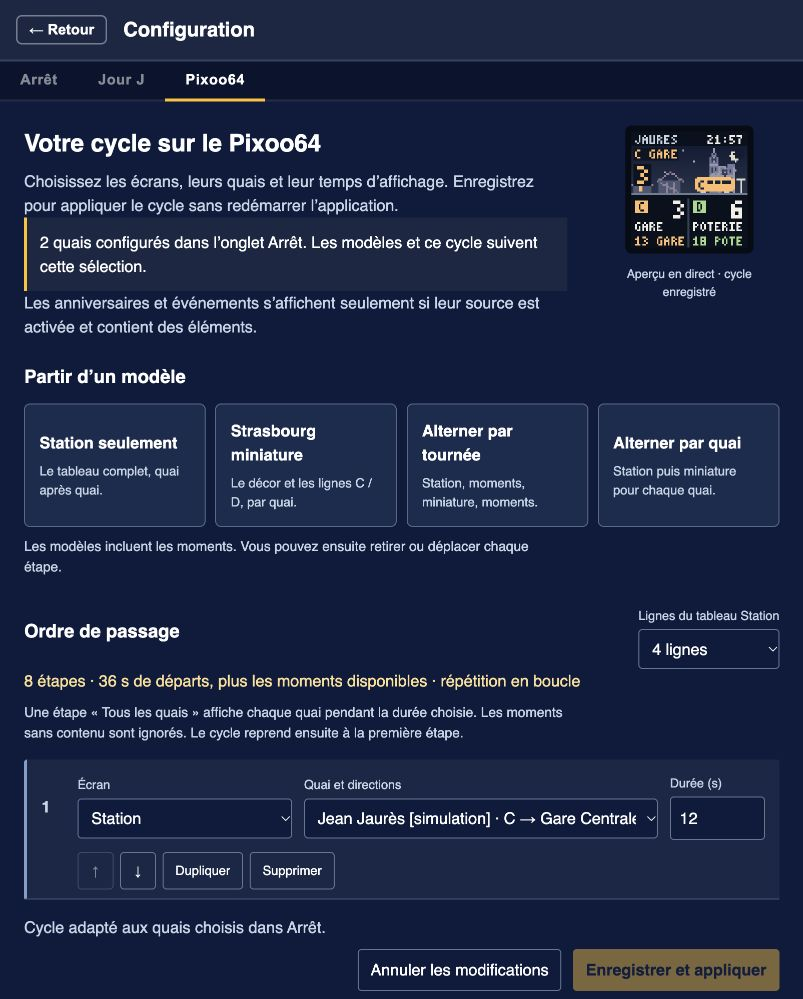
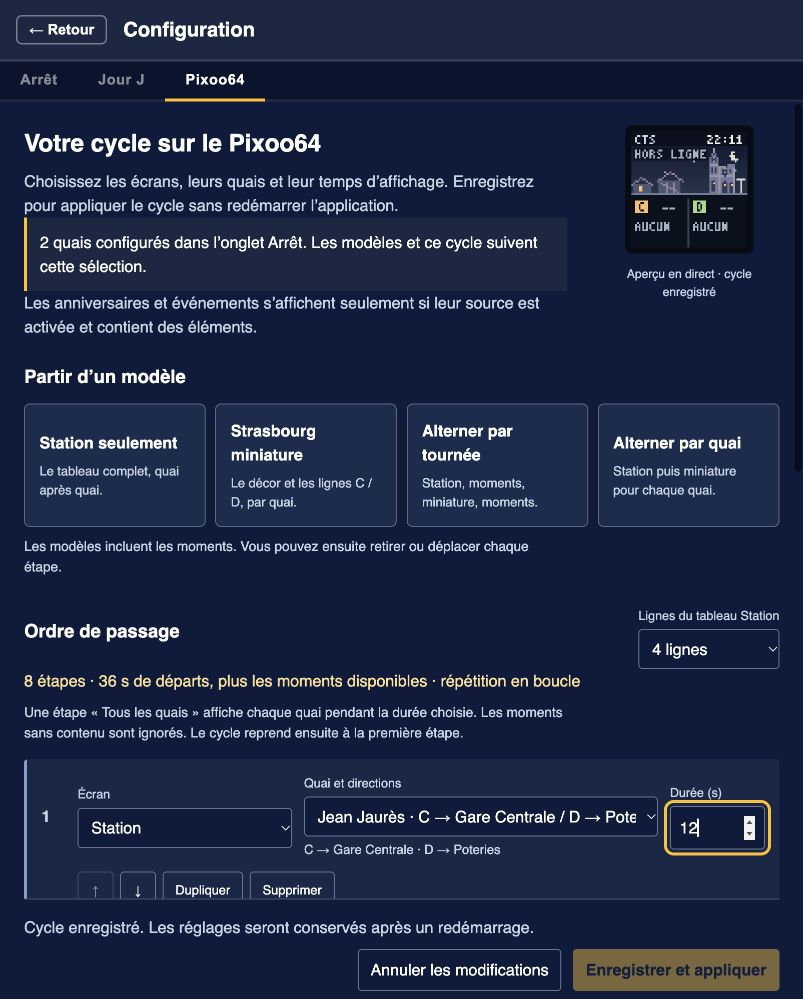
fix: retain PIXOO64 platform names outside service hours (v1.6.6)

diff --git a/static/pixoo-config.js b/static/pixoo-config.js
@@ -21,7 +21,7 @@
         dirty = true; report("Modifications non enregistrées."); refreshSummary();
     }
     function platformLabel(p) {
-        return (p.name || "Quai") + " · " + (p.directions.length ? p.directions.join(" / ") : "Réf. " + p.ref) + (p.directions.length ? " (" + p.ref + ")" : "");
+        return (p.name || "Arrêt à identifier") + " · " + (p.directions.length ? p.directions.join(" / ") : "Directions encore inconnues (" + p.ref + ")");
     }
     function isDeparture(step) { return step.screen === "station" || step.screen === "miniature"; }
     function refreshSummary() {
@@ -52,6 +52,11 @@
                 changed(); renderSteps(); focusStep(i);
             });
             var platform = el("select"); platform.id = "px-platform-" + i;
+            var platformCaption = el("small", "px-platform-caption");
+            function describePlatform() {
+                var selected = data.platforms.find(function (p) {return p.ref === step.platform;});
+                platformCaption.textContent = selected ? (selected.directions.join(" · ") || "Directions encore inconnues") : "Chaque quai sélectionné dans Arrêt";
+            }
             if (isDeparture(step)) {
                 platform.append(option("", "Tous les quais configurés"));
                 data.platforms.forEach(function (p) { platform.append(option(p.ref, platformLabel(p))); });
@@ -59,12 +64,14 @@
                 platform.value = step.platform || "";
                 platform.addEventListener("change", function () {
                     if (platform.value) step.platform = platform.value; else delete step.platform;
-                    changed();
+                    describePlatform(); changed();
                 });
             } else { platform.append(option("", "Tous les éléments disponibles")); platform.disabled = true; }
             var seconds = el("input"); seconds.type = "number"; seconds.min = "1"; seconds.max = "300"; seconds.step = "1"; seconds.value = step.seconds; seconds.id = "px-seconds-" + i;
             seconds.addEventListener("input", function () { step.seconds = seconds.valueAsNumber; changed(); });
-            row.append(field("Écran", type), field(isDeparture(step) ? "Quai et directions" : "Contenu", platform), field(isDeparture(step) ? "Durée (s)" : "Par élément (s)", seconds));
+            var platformField = field(isDeparture(step) ? "Quai et directions" : "Contenu", platform);
+            if (isDeparture(step)) {describePlatform(); platformField.append(platformCaption);}
+            row.append(field("Écran", type), platformField, field(isDeparture(step) ? "Durée (s)" : "Par élément (s)", seconds));
             var actions = el("div", "px-step-actions");
             [["↑", "Monter", -1], ["↓", "Descendre", 1]].forEach(function (a) {
                 var b = button(a[0], function () { var target = i + a[2]; draft.steps.splice(target, 0, draft.steps.splice(i, 1)[0]); changed(); renderSteps(); focusStep(target); });

diff --git a/static/style.css b/static/style.css
@@ -1709,3 +1709,5 @@ html, body {
 }
 
 #config-tabs .config-tab[hidden] { display: none; }
+
+#config-tab-pixoo64 .px-platform-caption { color: #c6d6e8; font-size: .8rem; line-height: 1.45; white-space: normal; overflow-wrap: anywhere; }

diff --git a/src/pixoo64/platforms.rs b/src/pixoo64/platforms.rs
@@ -1,0 +1,190 @@
+// SPDX-License-Identifier: MIT
+//! Display-only stop metadata, independent of the availability of departures.
+use crate::{cts::model::MonitoredStopVisit, web::AppState};
+use serde::{Deserialize, Serialize};
+use std::collections::BTreeMap;
+
+#[derive(Clone, Debug, Default, PartialEq, Eq, Serialize, Deserialize)]
+pub struct Label {
+    pub name: String,
+    #[serde(default)]
+    pub directions: Vec<String>,
+}
+pub type Labels = BTreeMap<String, Label>;
+
+/// Initial labels for the Jean Jaurès platforms supported by the default cycle.
+/// Observed CTS metadata takes precedence; references remain internal identifiers.
+pub fn initial(reference: &str) -> Label {
+    let directions = match reference {
+        "298B" => vec!["C → Gare Centrale", "D → Poteries"],
+        "298A" => vec!["C → Neuhof Rodolphe Reuss", "D → Kehl / Port du Rhin"],
+        _ => return Label::default(),
+    };
+    Label {
+        name: "Jean Jaurès".into(),
+        directions: directions.into_iter().map(String::from).collect(),
+    }
+}
+
+pub fn observations(visits: &[MonitoredStopVisit]) -> Labels {
+    let mut result = Labels::new();
+    for visit in visits {
+        let j = &visit.monitored_vehicle_journey;
+        let label = result.entry(visit.stop_code.clone()).or_default();
+        label.name = j.monitored_call.stop_point_name.clone();
+        if !j.published_line_name.trim().is_empty() && !j.destination_name.trim().is_empty() {
+            let mut direction = format!("{} → {}", j.published_line_name, j.destination_name);
+            if let Some(via) = j.via.as_ref().filter(|v| !v.is_empty()) {
+                direction.push_str(&format!(" via {via}"));
+            }
+            label.directions.push(direction);
+        }
+    }
+    result
+}
+
+pub fn merge(labels: &mut Labels, observations: Labels) {
+    for (reference, observed) in observations {
+        if observed.name.trim().is_empty() && observed.directions.is_empty() {
+            continue;
+        }
+        let label = labels.entry(reference).or_default();
+        if !observed.name.trim().is_empty() {
+            label.name = observed.name;
+        }
+        label.directions.extend(
+            observed
+                .directions
+                .into_iter()
+                .filter(|d| !d.trim().is_empty()),
+        );
+        label.directions.sort();
+        label.directions.dedup();
+    }
+}
+
+/// Save only public labels in the already-writable configuration file. No extra
+/// directory permissions or background CTS queries are required.
+fn save(path: &str, labels: &Labels) -> anyhow::Result<()> {
+    let content = std::fs::read_to_string(path)?;
+    let root: BTreeMap<String, toml::Spanned<toml::Value>> = toml::from_str(&content)?;
+    let quote = |s: &str| toml::Value::String(s.into()).to_string();
+    let entries = labels
+        .iter()
+        .map(|(reference, label)| {
+            let directions = label
+                .directions
+                .iter()
+                .map(|d| quote(d))
+                .collect::<Vec<_>>()
+                .join(", ");
+            format!(
+                "{} = {{ name = {}, directions = [{}] }}",
+                quote(reference),
+                quote(&label.name),
+                directions
+            )
+        })
+        .collect::<Vec<_>>()
+        .join(", ");
+    let value = format!("{{ {entries} }}");
+    let mut updated = content.clone();
+    if let Some(old) = root.get("pixoo64_platform_labels") {
+        updated.replace_range(old.span(), &value);
+    } else {
+        updated = format!("pixoo64_platform_labels = {value}\n{content}");
+    }
+    let parsed: toml::Table = toml::from_str(&updated)?;
+    let roundtrip: Labels = parsed["pixoo64_platform_labels"].clone().try_into()?;
+    anyhow::ensure!(&roundtrip == labels, "Invalid platform labels");
+    std::fs::write(path, updated)?;
+    Ok(())
+}
+
+pub async fn remember(state: &AppState, observations: Labels) {
+    if !state.pixoo64_enabled || state.cts_simulation || observations.is_empty() {
+        return;
+    }
+    let _edit = state.config_edit_lock.lock().await;
+    let mut labels = state.pixoo64_platform_labels.write().await;
+    let before = labels.clone();
+    merge(&mut labels, observations);
+    if *labels != before {
+        if let Err(error) = save(&state.config_path, &labels) {
+            tracing::warn!(%error, "Unable to persist PIXOO64 platform labels; retained in memory");
+        }
+    }
+}
+
+#[cfg(test)]
+mod tests {
+    use super::*;
+    #[test]
+    fn cts_visits_identify_each_physical_platform_without_mixing_directions() {
+        let visit = |reference: &str, destination: &str| {
+            serde_json::from_value::<MonitoredStopVisit>(serde_json::json!({
+                "StopCode": reference,
+                "MonitoredVehicleJourney": {
+                    "PublishedLineName": "C", "DestinationName": destination,
+                    "DestinationShortName": destination, "VehicleMode": "tram", "Via": null,
+                    "MonitoredCall": {"StopPointName": "Jean Jaurès",
+                        "ExpectedArrivalTime": "2026-10-24T08:30:00+02:00",
+                        "Extension": {"IsRealTime": true}}
+                }
+            }))
+            .unwrap()
+        };
+        let labels = observations(&[visit("298B", "Gare Centrale"), visit("298A", "Neuhof")]);
+        assert_eq!(labels["298B"].directions, vec!["C → Gare Centrale"]);
+        assert_eq!(labels["298A"].directions, vec!["C → Neuhof"]);
+        assert_eq!(labels["298A"].name, "Jean Jaurès");
+    }
+    #[test]
+    fn labels_survive_empty_partial_departures_and_restart() {
+        let mut labels = Labels::from([(
+            "other-quai".into(),
+            Label {
+                name: "Autre arrêt".into(),
+                directions: vec!["A → Nord".into()],
+            },
+        )]);
+        merge(
+            &mut labels,
+            Labels::from([("other-quai".into(), Label::default())]),
+        );
+        merge(
+            &mut labels,
+            Labels::from([(
+                "other-quai".into(),
+                Label {
+                    name: "Autre arrêt".into(),
+                    directions: vec!["A → Sud".into(), "A → Nord".into()],
+                },
+            )]),
+        );
+        assert_eq!(labels["other-quai"].directions, vec!["A → Nord", "A → Sud"]);
+        let path = std::env::temp_dir().join(format!(
+            "cts-labels-{}-{}.toml",
+            std::process::id(),
+            chrono::Utc::now().timestamp_nanos_opt().unwrap()
+        ));
+        let original =
+            "# unchanged\ncts_api_token = 'fictional'\ncts_monitoring_ref = ['other-quai']\n";
+        std::fs::write(&path, original).unwrap();
+        save(path.to_str().unwrap(), &labels).unwrap();
+        let saved = std::fs::read_to_string(&path).unwrap();
+        assert!(saved.ends_with(original));
+        save(path.to_str().unwrap(), &labels).unwrap();
+        assert_eq!(saved, std::fs::read_to_string(&path).unwrap());
+        let parsed: toml::Table = toml::from_str(&saved).unwrap();
+        let loaded: Labels = parsed["pixoo64_platform_labels"]
+            .clone()
+            .try_into()
+            .unwrap();
+        assert_eq!(labels, loaded);
+        assert_eq!(initial("298B").name, "Jean Jaurès");
+        assert_ne!(initial("298A").directions, initial("298B").directions);
+        assert!(initial("unknown").name.is_empty());
+        std::fs::remove_file(path).unwrap();
+    }
+}

diff --git a/tests/pixoo_config_integration.py b/tests/pixoo_config_integration.py
@@ -97,6 +97,21 @@ jour_j_events = []
         p=start()
         assert request()[0]==404 and request(body=expected)[0]==404
         assert request('/api/status')[0]==200
-        print(json.dumps({'disabled_device_rejected':'OK','single_platform_and_replacement':'OK','api_validation':'OK','external_and_cross_origin_rejected':'OK','write_failure_preserves_live_settings':'OK','comments_and_permissions_preserved':'OK','other_settings_preserved':'OK','restart_persistence':'OK','preview_after_restart':'OK'}))
+        # Cold start outside service hours: no departures or CTS request needed.
+        p.terminate();p.wait(timeout=10)
+        config.write_text(config.read_text().replace('pixoo64_enabled = false','pixoo64_enabled = true') + '\ncts_always_query = false\ncts_query_intervals = "0 0 31 2 *"\npixoo64_platform_labels = { "other-quai" = { name = "Autre arrêt", directions = ["A → Nord"] } }\n')
+        p=start()
+        offline=json.loads(request()[1])
+        assert [v['name'] for v in offline['platforms']]==['Jean Jaurès','Jean Jaurès']
+        assert offline['platforms'][0]['directions']==['C → Gare Centrale','D → Poteries']
+        assert 'Neuhof' in offline['platforms'][1]['directions'][0]
+        assert 'Kehl' in offline['platforms'][1]['directions'][1]
+        assert request('/api/config',{'monitoring_refs':['other-quai']})[0]==200
+        other=json.loads(request()[1])
+        assert other['platforms']==[{'ref':'other-quai','name':'Autre arrêt','directions':['A → Nord']}]
+        assert request(body=other['settings'])[0]==200
+        p.terminate();p.wait(timeout=10);p=start()
+        assert json.loads(request()[1])['platforms']==other['platforms']
+        print(json.dumps({'offline_names_and_directions':'OK','disabled_device_rejected' :'OK','single_platform_and_replacement':'OK','api_validation':'OK','external_and_cross_origin_rejected':'OK','write_failure_preserves_live_settings':'OK','comments_and_permissions_preserved':'OK','other_settings_preserved':'OK','restart_persistence':'OK','preview_after_restart':'OK'}))
     finally:
         p.terminate();p.wait(timeout=10)

diff --git a/src/web/pixoo_config.rs b/src/web/pixoo_config.rs
@@ -62,13 +62,23 @@ pub async fn get_config(State(state): State<Arc<AppState>>, headers: HeaderMap) 
         .as_ref()
         .and_then(|s| serde_json::from_str::<Value>(s).ok())
         .unwrap_or(Value::Null);
+    let labels = state.pixoo64_platform_labels.read().await;
     let platforms = refs
         .iter()
         .map(|r| {
             let board = latest["boards"]
                 .as_array()
                 .and_then(|bs| bs.iter().find(|b| b["monitoring_ref"].as_str() == Some(r)));
-            let name = board.and_then(|b| b["stop_name"].as_str()).unwrap_or("");
+            let mut label = labels
+                .get(r)
+                .cloned()
+                .unwrap_or_else(|| crate::pixoo64::platforms::initial(r));
+            if let Some(name) = board
+                .and_then(|b| b["stop_name"].as_str())
+                .filter(|n| !n.trim().is_empty())
+            {
+                label.name = name.to_owned();
+            }
             let directions = board
                 .and_then(|b| b["lines"].as_array())
                 .map(|ls| {
@@ -83,7 +93,10 @@ pub async fn get_config(State(state): State<Arc<AppState>>, headers: HeaderMap) 
                         .collect::<Vec<_>>()
                 })
                 .unwrap_or_default();
-            json!({"ref":r,"name":name,"directions":directions})
+            if !directions.is_empty() && label.directions.is_empty() {
+                label.directions = directions;
+            }
+            json!({"ref":r,"name":label.name,"directions":label.directions})
         })
         .collect::<Vec<_>>();
     Json(json!({"enabled":state.pixoo64_enabled,"settings":settings,"defaults":defaults,"platforms":platforms,

diff --git a/scripts/package_freebox.py b/scripts/package_freebox.py
@@ -96,6 +96,17 @@ Enregistrer et appliquer conserve le cycle dans `config.toml` et l’applique
 immédiatement, sans redémarrage. Le compte du service doit pouvoir écrire
 ce fichier. L’aperçu montre le cycle enregistré, pas les modifications en cours.
 
+## Noms des quais même hors service
+
+L’onglet Pixoo64 affiche les noms des arrêts et leurs directions à la place
+des références techniques. Les directions complètes restent lisibles sous
+chaque liste de choix. Les libellés CTS connus sont mémorisés dans
+`pixoo64_platform_labels` et conservés après redémarrage, sans requête CTS
+supplémentaire hors des horaires configurés. Jean Jaurès dispose de libellés
+initiaux pour les deux quais, même au premier démarrage hors service.
+Les autres quais encore inconnus gardent un libellé de secours jusqu’à
+l’obtention de leurs informations CTS.
+
 ## Cycle initial Station / Strasbourg miniature
 
 Cycle : Station A → Station B → anniversaires → événements → miniature A →

diff --git a/src/cts/client.rs b/src/cts/client.rs
@@ -261,6 +261,7 @@ async fn fetch_departures(
         .context("API response contained no StopMonitoringDelivery")?;
 
     let min_cycle_secs = parse_iso_duration_secs(&delivery.shortest_possible_cycle);
+    crate::pixoo64::platforms::remember(state, crate::pixoo64::platforms::observations(&delivery.monitored_stop_visit)).await;
     let board = DepartureBoard::from_delivery(&delivery, Utc::now(), monitoring_ref.to_owned());
     Ok((board, min_cycle_secs))
 }
@@ -350,6 +351,8 @@ pub async fn fetch_stop_details(state: &AppState, logical_code: &str) -> Result<
         .into_iter()
         .next()
         .context("No StopMonitoringDelivery in stop details response")?;
+
+    crate::pixoo64::platforms::remember(state, crate::pixoo64::platforms::observations(&delivery.monitored_stop_visit)).await;
 
     // Group by physical stop code, preserving first-seen order
     let mut order: Vec<String> = Vec::new();

diff --git a/src/web/mod.rs b/src/web/mod.rs
@@ -74,6 +74,7 @@ pub struct AppState {
     pub pixoo64_enabled: bool,
     pub pixoo64_sequence: RwLock<Option<crate::pixoo64::sequence::Sequence>>,
     pub pixoo64_config_changed: Notify,
+    pub pixoo64_platform_labels: RwLock<crate::pixoo64::platforms::Labels>,
     /// Latest rendered frame as PNG bytes; served at /api/pixoo64/preview.
     pub pixoo64_preview: RwLock<Option<Vec<u8>>>,
     /// Seconds each tram hub screen is shown (hot-reloadable).
@@ -207,6 +208,7 @@ impl AppState {
             pixoo64_enabled: pixoo_enabled,
             pixoo64_sequence: RwLock::new(None),
             pixoo64_config_changed: Notify::new(),
+            pixoo64_platform_labels: RwLock::new(Default::default()),
             pixoo64_preview: RwLock::new(None),
             pixoo64_tram_screen_seconds:   AtomicU32::new(pixoo_tram_secs),
             pixoo64_moment_screen_seconds: AtomicU32::new(pixoo_moment_secs),

diff --git a/src/config.rs b/src/config.rs
@@ -101,6 +101,9 @@ pub struct AppConfig {
     pub pixoo64_brightness: Option<u8>,
     /// Optional editable playlist; absent retains the validated legacy cycle.
     pub pixoo64_sequence: Option<crate::pixoo64::sequence::Sequence>,
+    /// Last known public stop names and directions, retained outside service hours.
+    #[serde(default)]
+    pub pixoo64_platform_labels: crate::pixoo64::platforms::Labels,
 
     // ── Meteoblue weather widget ──────────────────────────────────────────────
     /// When true, show the weather widget in the board footer.

diff --git a/src/main.rs b/src/main.rs
@@ -94,6 +94,7 @@ async fn main() -> Result<()> {
     );
 
     *app_state.pixoo64_sequence.write().await = config.pixoo64_sequence.clone();
+    *app_state.pixoo64_platform_labels.write().await = config.pixoo64_platform_labels.clone();
 
     let mut renderers: Vec<Box<dyn DisplayRenderer>> = vec![Box::new(WebRenderer {
         state: app_state.clone(),

diff --git a/src/pixoo64/mod.rs b/src/pixoo64/mod.rs
@@ -7,3 +7,5 @@ pub mod miniature;
 pub mod renderer;
 mod solar;
 pub mod sequence;
+
+pub mod platforms;

diff --git a/README.md b/README.md
@@ -75,7 +75,7 @@ These images use the actual 64×64 Rust renderer and fictional data, enlarged wi
 
 ### Freebox release download
 
-Download `cts-departures-v1.6.5-freebox-aarch64.zip` from the [v1.6.5 release](https://github.com/jib63/CTS_destination/releases/tag/v1.6.5). It contains a static Linux ARM64 binary, an example configuration, installation notes and SHA-256 checksums. Existing installations should replace only the binary and keep their own configuration.
+Download `cts-departures-v1.6.6-freebox-aarch64.zip` from the [v1.6.6 release](https://github.com/jib63/CTS_destination/releases/tag/v1.6.6). It contains a static Linux ARM64 binary, an example configuration, installation notes and SHA-256 checksums. Existing installations should replace only the binary and keep their own configuration.
 
 To reproduce this public archive after installing the cross-compilation prerequisites below:
 
@@ -84,7 +84,7 @@ cargo zigbuild --locked --target aarch64-unknown-linux-musl --release --bin cts-
 python3 scripts/package_freebox.py
 ```
 
-The archive and its checksum are written under `target/release-v1.6.5/`. This packaging script uses a public example instead of copying your local configuration.
+The archive and its checksum are written under `target/release-v1.6.6/`. This packaging script uses a public example instead of copying your local configuration.
 
 ### On the target machine (Linux aarch64)
 
@@ -426,7 +426,7 @@ Rotation order (v1.6.1): **Station A → Station B → birthdays → events → 
 
 ![Pixoo64 playlist editor](docs/screenshots/config-pixoo64.png)
 
-Open **Configuration → Pixoo64**, after **Arrêt** and **Jour J**. Four starting models are available: Station only, Strasbourg miniature only, alternating complete tours, or alternating designs for each platform. Every model can be customized.
+Open **Configuration → Pixoo64**, after **Arrêt** and **Jour J**. Platform selectors show stop names and directions rather than technical references. Known labels are retained in `pixoo64_platform_labels` across service interruptions and restarts; Jean Jaurès has initial labels for both directions, including on a first start outside service hours. Other platforms learn their labels from CTS departures and stop selection, without extra polling outside the configured hours. Unknown platforms retain an explicit fallback until CTS metadata is available. Four starting models are available: Station only, Strasbourg miniature only, alternating complete tours, or alternating designs for each platform. Every model can be customized.
 
 Each step has a screen type (`station`, `miniature`, `birthdays`, `events`), an optional platform and a duration from **1 to 300 seconds**. Omit the platform to tour all configured platforms, spending that duration on each. Birthday and event durations apply to each available item; empty moment groups are skipped. Add, duplicate, remove or reorder steps with the buttons. Station can show 1–4 rows; miniature keeps its two C/D columns.
 
